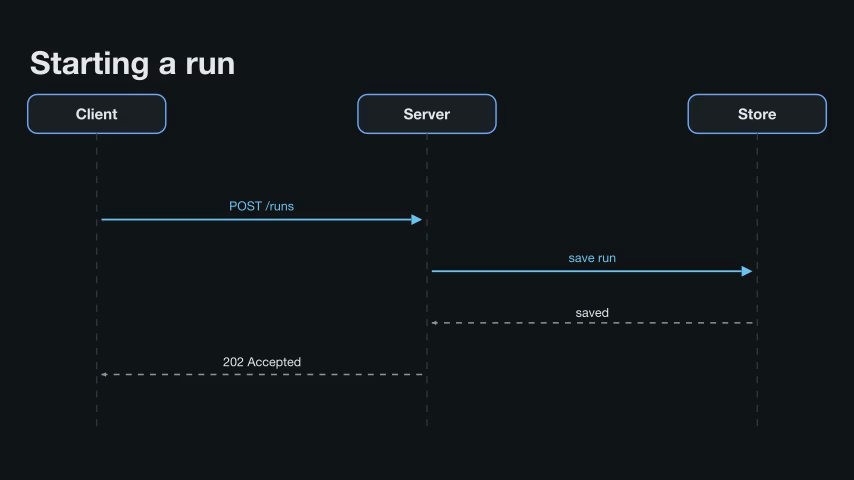
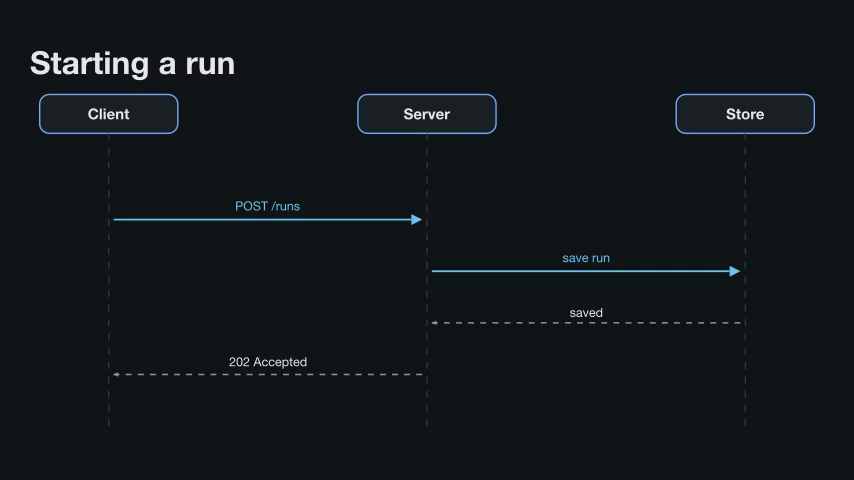
docs(skills): join, build/, captions and bar-ranking wording; fix(blocks): sequence-diagram default width keeps actors on the stage

diff --git a/blocks/sequence-diagram/block.py b/blocks/sequence-diagram/block.py
@@ -2,7 +2,7 @@
 from manimvox.kit import *
 
 
-def sequence_diagram(actors, messages, top=2.1, bottom=-3.1, width=11.0, colors=None, size=15):
+def sequence_diagram(actors, messages, top=2.1, bottom=-3.1, width=10.6, colors=None, size=15):
     """`actors` are column names, left to right, spread across `width`. `messages` are (from, to, label) or
     (from, to, label, "reply"), naming actors as in `actors`; replies are dashed and muted. Returns a VGroup
     with .lifelines (one per actor) and .messages (in order, to reveal one at a time).

diff --git a/skills/manimvox-cli/SKILL.md b/skills/manimvox-cli/SKILL.md
@@ -47,7 +47,7 @@ Ask the user before installing anything: a system package, manimvox itself, or a
 | `manimvox check audio EP` | none | nothing | 1 if a line is silent |
 | `manimvox voices [ENGINE]` | `--prepare ENGINE[:VOICE]`, `-y` | model files in the cache | 1 on a voice error |
 | `manimvox add [BLOCK ...]` | `--list`, `--force` | `blocks/<block>.py`, `blocks/__init__.py` | 1 on an unknown block or one already in the project without `--force` |
-| `manimvox join [EP ...]` | `-o OUT.mp4`, `--no-cards` | `out/<Series>.mp4` and `.srt` (title card, the episodes in order, end card) | 1 if an episode is not rendered or the frame rates differ |
+| `manimvox join [EP ...]` | `-o OUT.mp4`, `--no-cards` | `out/<Series>.mp4` and `.srt` (title card, then the episodes in order, each with its own end card) | 1 if an episode is not rendered or the frame rates differ |
 | `manimvox index` | none | `out/index.html` | 1 on error |
 | `manimvox package` | none | `share/<Name>/`, `share/<Name>-720p/` and a zip of each | 1 on error |
 | `manimvox skills install\|check\|update\|remove` | see [Skills in your agents](#skills-in-your-agents) | the skill folders of your coding agents | 1 on a problem, 2 with no terminal and no flag |
@@ -120,7 +120,7 @@ Flags by subcommand: `install` takes `--agent ID` (repeatable), `--global` or `-
 | `out/` | finished `.mp4` and `.srt`, and `index.html` |
 | `blocks/` | blocks copied by `manimvox add`, owned by the project |
 | `sheets/` | contact sheets from drafts |
-| `build/` | Manim's working files and the layout report (safe to delete) |
+| `build/` | Manim's working files and the layout report (safe to delete; `check audio` needs it when `post.music` is set) |
 | `.manimvox/tts` | cached narration audio |
 | `share/` | packages from `manimvox package` |
 

diff --git a/README.md b/README.md
@@ -178,7 +178,7 @@ Then ask your agent: "make an explainer video of <paper / repo / idea / PR>".
 | `manimvox voices [ENGINE]` | Engines with status and licence, or the voices of one engine |
 | `manimvox voices --prepare ENGINE[:VOICE] [--yes]` | Download and check a voice ahead of a render |
 | `manimvox add [BLOCK ...] [--list] [--force]` | Copy a scene block into the project's `blocks/` folder |
-| `manimvox join [EP ...] [-o OUT.mp4] [--no-cards]` | Join rendered episodes into one video with a title card and an end card |
+| `manimvox join [EP ...] [-o OUT.mp4] [--no-cards]` | Join rendered episodes into one video with a title card (each episode keeps its own end card) |
 | `manimvox doctor` | System libraries, fonts and voice engines |
 
 `EP` can be written `ep01`, `1`, or the episode's file stem. Commands exit non-zero on any failed check. Without a terminal, manimvox never prompts: pass `--yes` (or set `MANIMVOX_ASSUME_YES=1`) to allow downloads.
@@ -247,7 +247,7 @@ Install the `matplotlib` or `plotly` extra for them (see the extras table). Plot
 "post": {"music": "music/bed.mp3", "music_db": -16, "duck_db": -12, "captions": "burn", "end_card": ["Sources: FACTS.md"], "card_seconds": 3}
 ```
 
-`music` is a file you provide; it loops under the narration and dips by `duck_db` while someone speaks. `captions` is `"srt"` (default) or `"burn"`. `end_card` is up to 4 lines. `manimvox join` then makes one video of the rendered episodes.
+`music` is a file you provide; it loops under the narration and dips by `duck_db` while someone speaks. `captions` is `"srt"` (default) or `"burn"`. `end_card` is up to 4 lines. `manimvox join` then makes one video of the rendered episodes: a title card, then each episode with its own end card.
 
 ## Configuration
 

diff --git a/skills/manimvox-voice/SKILL.md b/skills/manimvox-voice/SKILL.md
@@ -107,7 +107,7 @@ If a word is mispronounced, fix it in the voice, not in the text on screen.
 ```
 
 - `music` is a file in the project. It loops or is cut to the episode, fades in and out, and dips `duck_db` under every narration line. `music_db` (default -16) is its level; `duck_db` (default -12) is the extra cut while someone speaks. Both are numbers from -60 to 0.
-- `captions` is `"srt"` (the default, ship the `.srt` only) or `"burn"` (draw the subtitles into the picture as well). Burned captions cover the bottom of the stage, so keep notes clear of it or ship the `.srt` only.
+- `captions` is `"srt"` (the default, ship the `.srt` only) or `"burn"` (draw the subtitles into the picture as well). Burned captions cover the bottom of the stage, so keep notes clear of it or ship the `.srt` only. Burned captions are drawn without complex-script shaping; for Arabic, CJK or other complex scripts ship the `.srt` instead.
 - `end_card` adds up to 4 lines (80 characters each) on a closing card; a single string is accepted. `card_seconds` (default 3, from 1 to 10) is how long it shows.
 
 **Music rights.** manimvox ships no music and never downloads any. Use only a file the user provides and has the right to use; ask before fetching any music. With no way to ask, render without music.

diff --git a/skills/manimvox-blocks/SKILL.md b/skills/manimvox-blocks/SKILL.md
@@ -15,7 +15,7 @@ Run `manimvox add --list`. Each line is a block's name, what it draws, and its t
 | Block | Draws |
 |---|---|
 | `venn` | two overlapping circles with a count in each region |
-| `bar-ranking` | horizontal bars ranked by value, leaders highlighted, a threshold line |
+| `bar-ranking` | horizontal bars ranked by value, leaders highlighted; `value_x` places a threshold line |
 | `line-by-level` | a line chart over named steps (effort levels, versions, weeks) |
 | `log-scatter` | labelled points on a log-scale x axis (cost, size, time) |
 | `bug-grid` | one square per item, a slice lit as they are counted |
